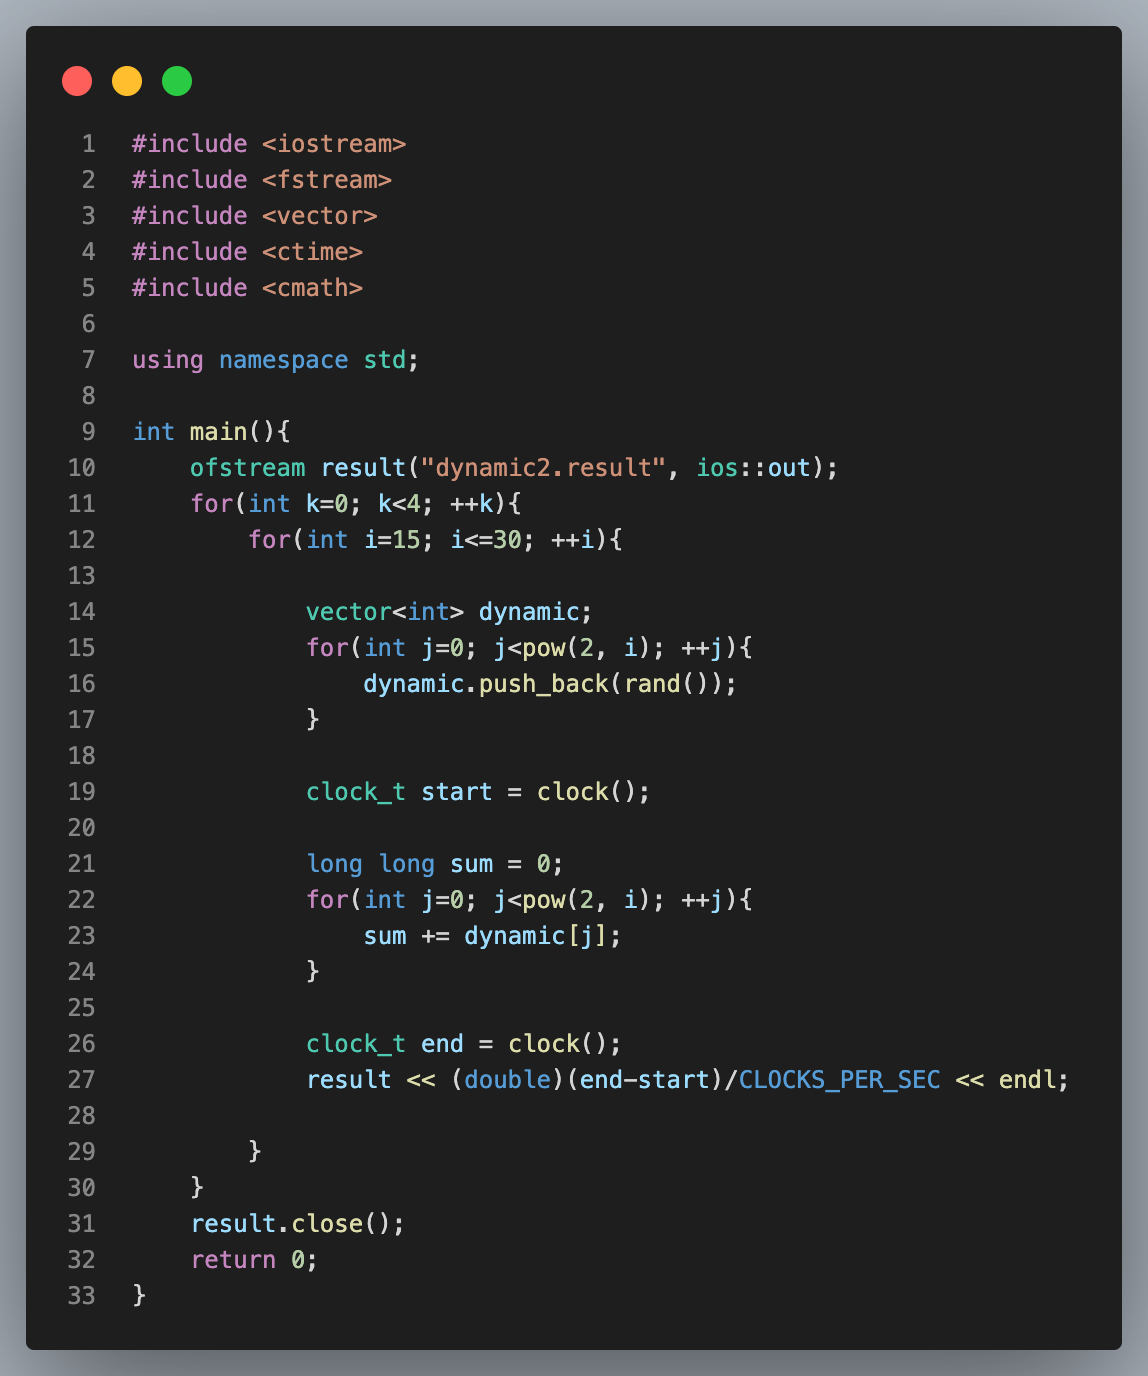
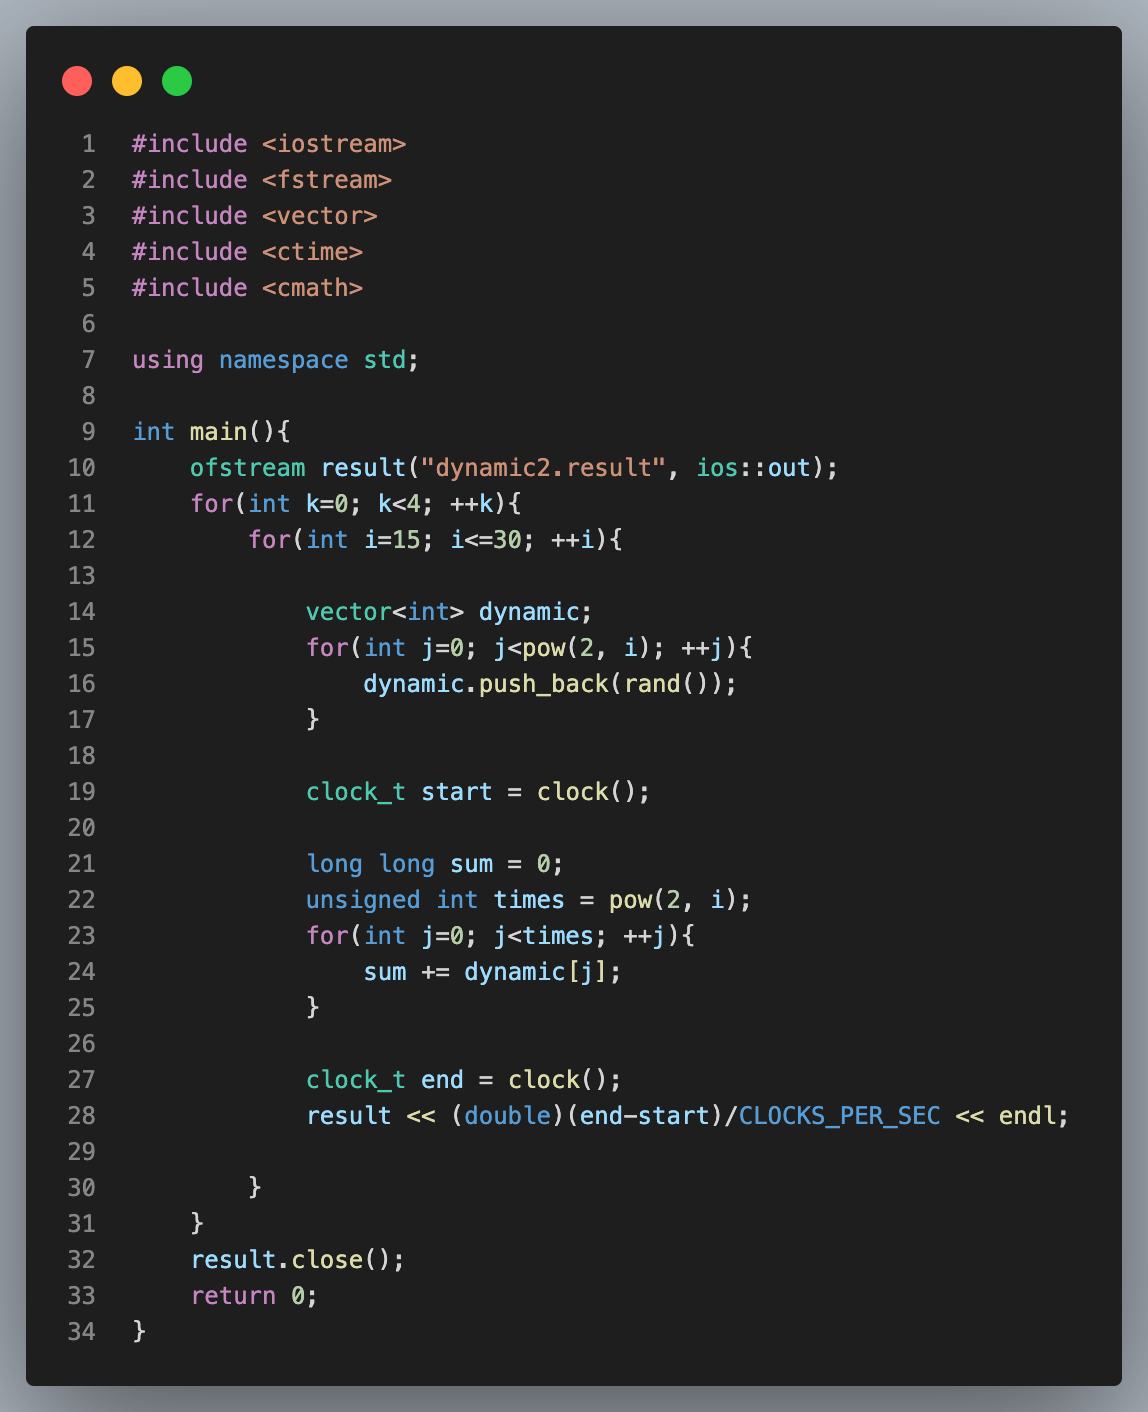
2022 10/13 23:04

diff --git a/DynamicArray2/dynamic2.cpp b/DynamicArray2/dynamic2.cpp
@@ -19,7 +19,8 @@ int main(){
             clock_t start = clock();
 
             long long sum = 0;
-            for(int j=0; j<pow(2, i); ++j){
+            unsigned int times = pow(2, i);
+            for(int j=0; j<times; ++j){
                 sum += dynamic[j];
             }
 
